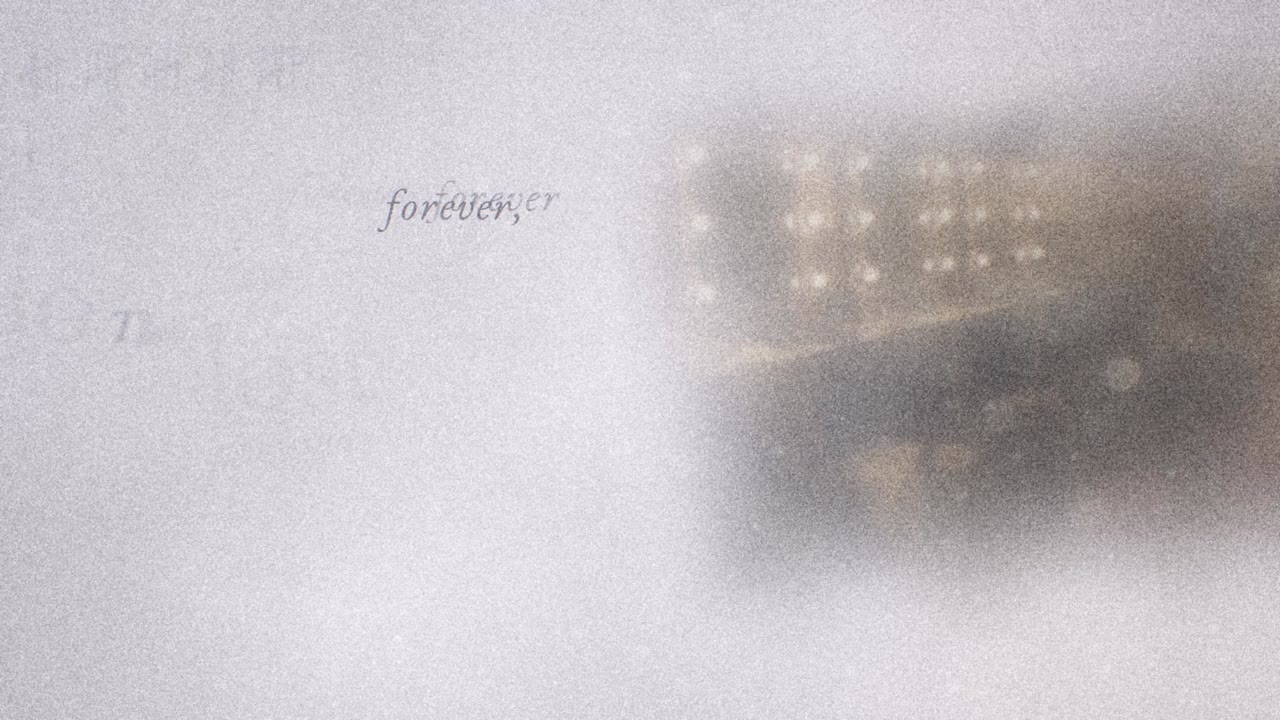
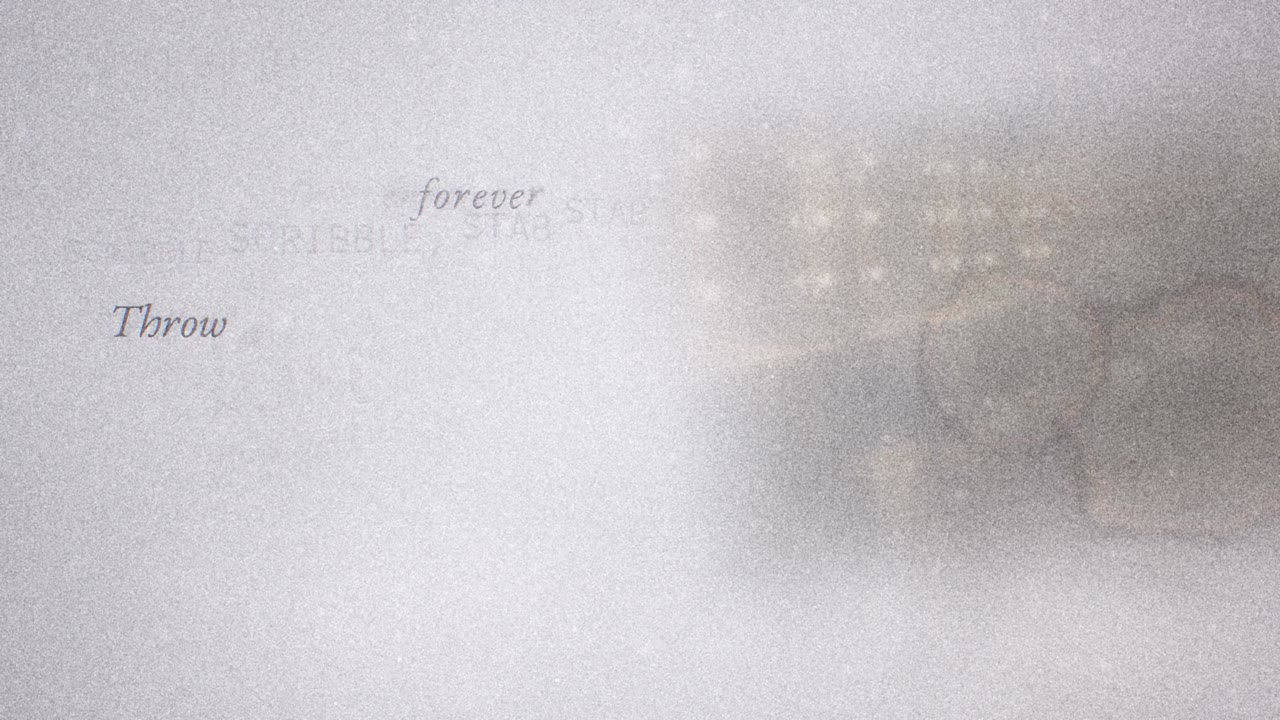
Second 'forever': linger and unwrite slowly instead of being flung
The fling fought the track's drifting tone. The copy now peels off,
drifts slowly, outlasts the line and is unwritten last, letter by letter.

Claude-Session: https://claude.ai/code/session_013aPae8dR11r7xw8o95d9Yi

diff --git a/storyboard/index.html b/storyboard/index.html
@@ -150,7 +150,7 @@ ol.steps li::marker { font: 600 0.85rem var(--mono); color: var(--ink-2); }
   </video>
   <figcaption><b>Refrain I: Stay lost now girl (chunk)</b>
     <span class="tc">1:24.2 → 1:32.5 · bars 23–26</span>
-    <span class="note">Revised: the second &#x27;forever&#x27; peels off the first as a copy, won&#x27;t be unwritten with the rest, drifts away, and is flung out on the first beat of &#x27;throw away&#x27;. The full Refrain I clip below has the old version of this moment. <a href="renders/refrain_forever_contact.jpg">Contact sheet</a></span></figcaption>
+    <span class="note">Revised: the second &#x27;forever&#x27; peels off the first as a copy, drifts slowly, outlasts the rest of the line, and is the last thing unwritten, letter by letter, as &#x27;Throw away everything&#x27; arrives. The full Refrain I clip below has the old version of this moment. <a href="renders/refrain_forever_contact.jpg">Contact sheet</a></span></figcaption>
 </figure>
 <figure class="render" id="render-refrain_i">
   <video controls playsinline preload="metadata" poster="renders/refrain_i_poster.jpg" width="1280" height="720">

diff --git a/video/kinetic.py b/video/kinetic.py
@@ -405,7 +405,8 @@ class Kinetic:
             opts = p.get("opts", {})
             fk = opts.get("foreknow", 0.0)
             dissolve = opts.get("exit") == "dissolve"
-            if t < a0 - 0.1 - fk or t > e0 + (1.8 if dissolve else 1.2 if v == "her" else 0.9):
+            linger = 3.2 if opts.get("split_second") else 1.8 if dissolve else 1.2 if v == "her" else 0.9
+            if t < a0 - 0.1 - fk or t > e0 + linger:
                 continue
             ex_len = {"her": 0.55, "coats": 0.28, "him": 0.9}[v]   # coats: gone before the next types
             ex = smooth(ramp(t, e0, e0 + ex_len))
@@ -479,9 +480,10 @@ class Kinetic:
                         a = 0.0 if gone else base_a
                         fl = 0.82 + 0.18 * _hash01(n, i, int(t * 30))
                         a *= fl
-                    elif o.get("split"):                        # won't be unwritten; thrown
-                        fl = p["split_fling"]
-                        a = u * base_a * (1 - smooth(ramp(t, fl + 0.1, fl + 0.5)))
+                    elif o.get("split"):                        # outlasts the line, then is
+                        fl = p["split_fling"]                   # unwritten slowly, last of all
+                        gt = fl + 1.1 * _hash01(n, pi, i, 17)
+                        a = u * base_a * (1 - smooth(ramp(t, gt, gt + 0.9)))
                         ex = 0.0
                     elif dissolve:                              # unwritten, letter by letter
                         if o["role"] == "backing":             # the echoes outlast her words
@@ -505,11 +507,10 @@ class Kinetic:
                     if i == 0:
                         word_alpha = a / max(base_a, 1e-3) if v in ("coats", "her") else u * (1 - ex)
                     px = o["x"] + xs[i] + drift_x
-                    if o.get("split"):                      # peels away, drifts, is flung
+                    if o.get("split"):                      # peels away and drifts, slowly
                         g = t - w["start"]
-                        fl = p["split_fling"]
-                        px += 150 * ease_out(clamp01(g / 2.2), 2) + 2600 * clamp01((t - fl) / 0.45) ** 2
-                        py_split = -26 * ease_out(clamp01(g / 2.2), 2) - 500 * clamp01((t - fl) / 0.45) ** 2
+                        px += 95 * ease_out(clamp01(g / 3.5), 2)
+                        py_split = -30 * ease_out(clamp01(g / 3.5), 2)
                     else:
                         py_split = 0.0
                     py = o["y"] + ((1 - u) * o["size"] * 0.35 if v == "her" else 0.0) + py_split

diff --git a/storyboard/spec.py b/storyboard/spec.py
@@ -203,7 +203,7 @@ STYLE_FRAMES = [
 # Sections built so far: (slug, section name, note shown under the player)
 RENDERS = [
     ("refrain_forever", "Refrain I: Stay lost now girl",
-     "Revised: the second 'forever' peels off the first as a copy, won't be unwritten with the rest, drifts away, and is flung out on the first beat of 'throw away'. The full Refrain I clip below has the old version of this moment.",
+     "Revised: the second 'forever' peels off the first as a copy, drifts slowly, outlasts the rest of the line, and is the last thing unwritten, letter by letter, as 'Throw away everything' arrives. The full Refrain I clip below has the old version of this moment.",
      (84.15, 92.5)),
     ("refrain_i", "Refrain I: Stay lost now girl",
      "Rebuilt as prophecy: she sees the future and tries to unmake it. Words appear faintly before they are sung; 'stay lost' is unwritten letter by letter; the memories are thrown out; the line rewinds and snaps forward on each 'again' with flashes of the future; 'forever again' recedes in a beat-stepped tunnel; a cold stop on 'Never'. Revised: calmer motion (lines drift and are unwritten, never float toward the viewer), a slow continuous tunnel, tally marks moved left. Web copy at 720p; the 1080p master passed QA and ffprobe."),
